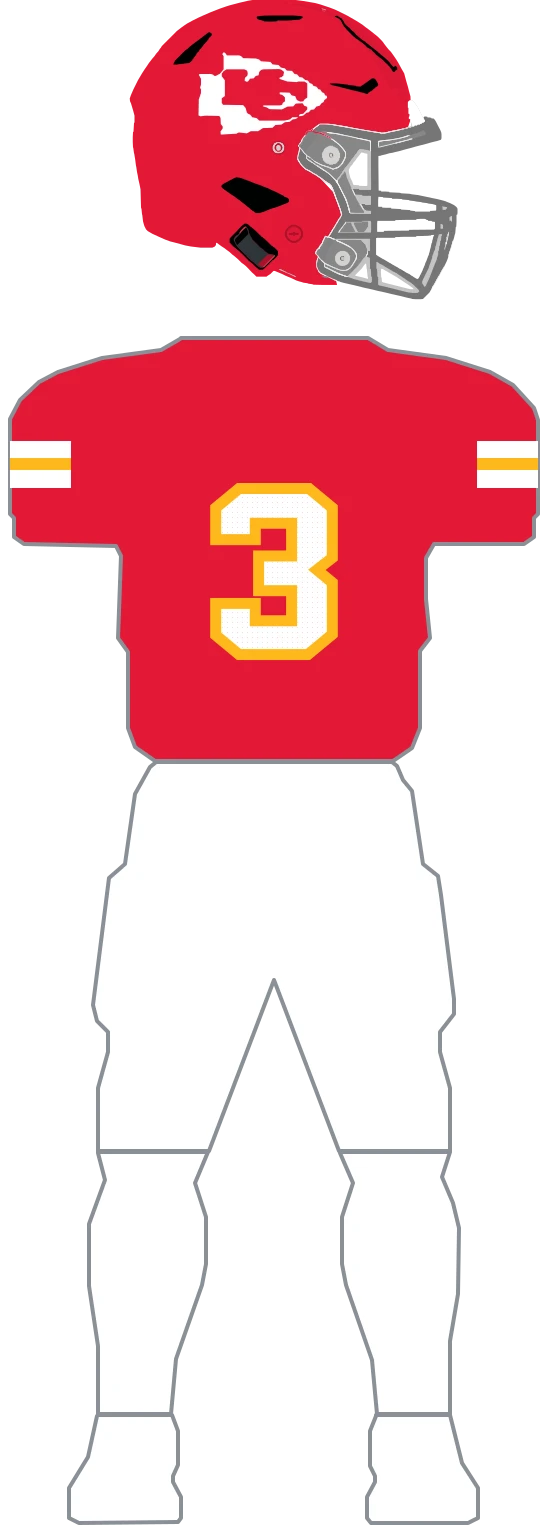
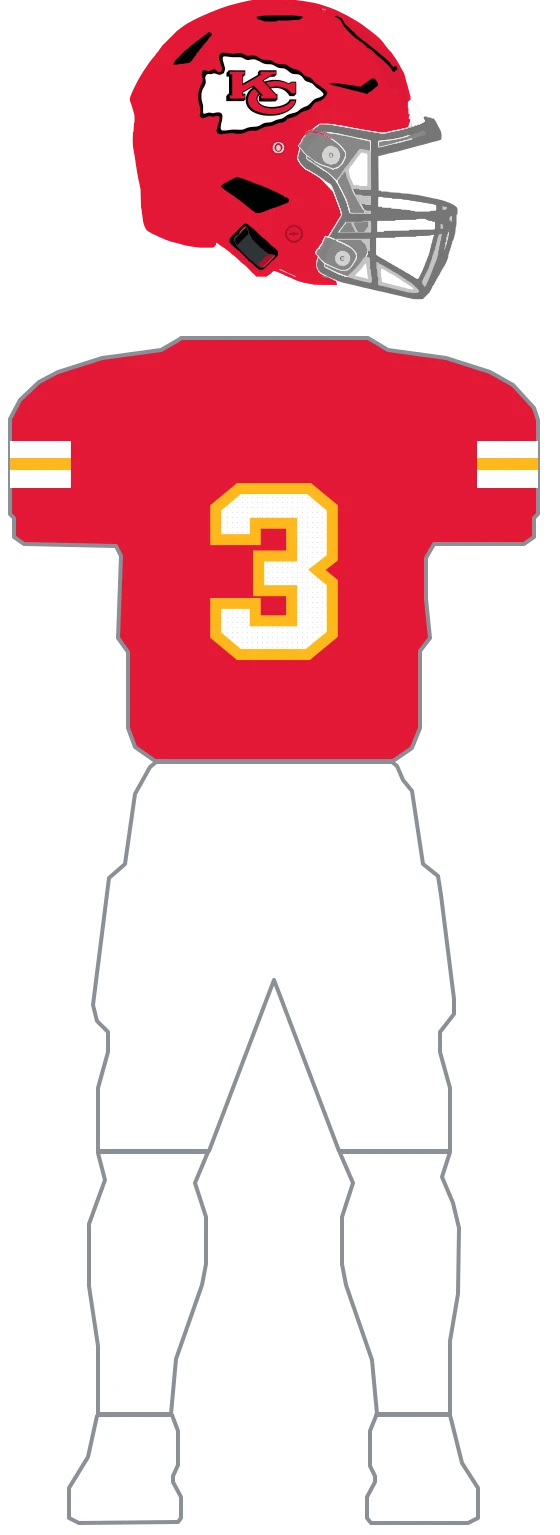
design(uniforms): refine Chiefs helmet mark (#794)

Changed region(s): [[0.3339, 0.0306, 0.5768, 0.0919]]

diff --git a/web/lib/uniforms/teams/chiefs.ts b/web/lib/uniforms/teams/chiefs.ts
@@ -1,21 +1,30 @@
-// Kansas City's construction geometry — the arrowhead decal and the sleeve-band constants only.
-// The composable parts definition that consumes them lives in ./chiefs.parts.ts; the former flat
-// CHIEFS_UNIFORMS was deleted in the migration that proved parts render byte-identically (see
-// parts-parity.test.ts for the one-time gate).
+// Kansas City's construction geometry: the supplied high-resolution helmet mark and sleeve-band
+// constants. The composable parts definition that consumes them lives in ./chiefs.parts.ts.
 
-// White is a literal on the home kit. Its palette is red over gold with accent === secondary (ESPN
-// supplies only two colors), so no token resolves to the pants, the outer sleeve bands or the
-// numeral face — resolving any of them from `accent` would paint them gold.
 export const CHIEFS_WHITE = '#FFFFFF';
 
-// One path, one color, no fill rule — and that is the whole trick here. The mark is a white
-// arrowhead with red letters, and the letters are the same red as the shell they sit on, so tracing
-// only the WHITE region gives a single boundary that snakes around the letterforms and lets the
-// shell read through them. The Cowboys' star needed two stacked layers and the 49ers' oval needed
-// three precisely because their marks are not the shell color. Traced from the helmet bbox
-// (x 877-983, y 295-392 in the reference) mapped onto the raw helmet space at ~6.2x.
-export const CHIEFS_DECAL_ARROWHEAD_PATH =
-  'M325.5,173.2 L329.2,173.2 L333.5,178.8 L357.7,178.8 L361.4,180.0 L365.7,184.3 L391.1,185.0 L397.3,186.8 L401.7,190.6 L420.3,191.8 L424.6,196.8 L436.4,198.0 L441.3,203.0 L449.4,204.9 L453.1,209.2 L463.6,209.8 L468.6,216.0 L473.6,216.7 L478.5,222.2 L484.1,222.9 L489.7,227.8 L495.2,229.1 L499.0,234.1 L503.9,235.9 L506.4,239.7 L512.6,241.5 L516.3,246.5 L520.0,247.1 L523.7,252.7 L527.5,253.9 L529.9,258.9 L533.0,259.5 L533.7,263.9 L528.1,268.2 L526.8,272.0 L522.5,274.5 L518.8,279.4 L512.0,281.3 L507.6,286.9 L501.4,287.5 L497.1,292.5 L492.1,293.7 L486.6,298.7 L482.8,299.9 L477.9,300.6 L477.3,298.1 L480.4,296.2 L485.9,295.6 L494.0,286.9 L494.0,282.5 L492.1,280.7 L488.4,280.0 L484.7,274.5 L471.1,275.1 L466.1,280.7 L454.3,281.3 L443.2,286.9 L418.4,286.3 L412.2,282.5 L406.0,281.3 L406.0,278.8 L439.5,278.8 L443.8,277.6 L445.1,273.8 L449.4,270.7 L449.4,262.6 L443.8,257.7 L438.9,256.4 L438.9,252.7 L458.7,253.3 L463.0,258.9 L469.8,260.2 L472.9,267.6 L474.8,268.9 L480.4,271.3 L485.9,270.7 L489.0,266.4 L494.0,263.3 L494.0,234.7 L488.4,231.0 L476.0,231.0 L472.9,232.2 L454.3,231.0 L438.9,226.0 L438.2,224.1 L439.5,222.9 L442.6,222.2 L446.3,219.1 L447.5,211.7 L442.0,207.3 L437.6,206.1 L405.4,206.7 L401.7,208.0 L398.0,211.7 L396.7,218.5 L391.1,219.8 L386.8,224.7 L379.4,225.4 L376.3,230.3 L373.2,231.6 L368.8,229.7 L369.5,223.5 L373.8,219.8 L375.0,216.0 L374.4,211.1 L372.6,208.6 L368.2,206.7 L332.3,206.7 L326.7,210.4 L323.0,215.4 L323.0,220.4 L329.2,228.5 L329.2,260.2 L323.0,264.5 L323.0,273.8 L325.5,277.6 L365.7,278.2 L370.7,283.8 L373.2,293.1 L375.7,295.6 L380.0,297.4 L383.7,302.4 L393.0,304.3 L398.0,309.2 L448.8,309.2 L459.3,306.8 L464.3,302.4 L474.8,302.4 L474.8,303.7 L470.5,306.1 L464.9,306.8 L458.7,311.7 L449.4,312.4 L442.0,317.3 L430.2,318.0 L424.6,323.5 L405.4,324.2 L395.5,330.4 L381.2,330.4 L373.2,334.7 L357.1,332.9 L352.1,335.4 L321.1,337.2 L320.5,331.0 L324.9,324.8 L324.9,321.1 L321.1,316.1 L320.5,303.7 L318.0,299.9 L290.2,299.3 L280.2,300.6 L276.5,298.7 L277.1,267.0 L281.5,253.9 L281.5,247.1 L279.6,243.4 L281.5,237.2 L281.5,225.4 L277.1,217.9 L278.4,216.0 L301.3,216.0 L305.6,217.3 L308.1,219.8 L311.2,219.8 L319.3,215.4 L326.7,206.7 L326.7,180.6 L324.2,176.3 L325.5,173.8 Z';
+// DEP-467: re-authored from the supplied 2048px SVG instead of the former single-color trace.
+// The mark is fitted into the helmet-composite placement envelope (x=276-534, y=173-337) with
+// its source aspect ratio preserved. At this scale the narrowest critical black keyline is over
+// 5px, and all four closed color components remain stable under a 0.75x downscale. UniformLayer
+// has no transform field, so scale and placement are baked into these raw helmet coordinates.
+export const CHIEFS_DECAL_OUTLINE_PATH =
+  'M324.68,173.35 L327.67,173.35 L332.82,174.01 L339.13,175.17 L341.62,175.51 L347.1,175.51 L353.58,174.51 L355.08,174.34 L359.9,174.34 L363.22,175.01 L366.71,176.17 L370.2,177.83 L372.36,179.16 L373.52,179.49 L376.84,179.49 L382.99,179 L385.65,179 L388.64,179.33 L391.63,179.99 L393.95,181.16 L397.11,183.15 L399.6,184.64 L402.26,185.97 L404.92,186.97 L407.08,187.47 L408.41,187.63 L417.88,187.8 L420.7,188.46 L423.03,189.46 L424.85,190.62 L427.18,192.29 L430.33,193.95 L432.83,194.94 L436.65,195.94 L437.81,196.11 L445.12,196.27 L448.61,196.61 L451.1,197.27 L453.76,198.43 L456.75,200.26 L459.91,202.59 L462.23,203.92 L465.72,205.24 L472.2,207.07 L475.36,208.23 L478.01,209.56 L480.67,211.22 L482.33,212.55 L484.16,214.38 L485.82,216.71 L487.48,218.37 L489.64,219.86 L491.8,220.86 L498.12,222.52 L500.94,223.85 L502.6,225.18 L504.1,226.84 L505.59,229 L507.59,231.33 L509.25,232.99 L511.74,234.65 L514.23,236.14 L516.39,237.97 L519.88,240.3 L521.37,241.46 L524.53,243.79 L526.19,245.12 L527.52,245.78 L529.68,247.77 L531.84,250.1 L533,251.43 L533.83,252.76 L534,254.09 L533.34,256.25 L532.17,258.24 L530.35,260.9 L528.68,263.06 L526.69,265.22 L524.86,266.88 L522.54,268.54 L519.71,269.87 L512.4,272.19 L509.75,273.52 L508.08,274.85 L506.75,276.18 L505.26,278.34 L503.6,281 L502.27,282.66 L500.77,284.32 L498.28,286.32 L495.13,287.98 L491.47,289.31 L486.65,290.8 L482.5,292.46 L480.17,293.79 L478.68,294.95 L476.69,296.78 L474.36,298.44 L470.21,300.6 L465.89,302.43 L462.23,303.43 L457.91,304.59 L455.25,305.75 L453.59,306.92 L451.6,308.74 L450.27,310.07 L448.61,311.24 L446.12,312.56 L443.96,313.23 L438.31,313.89 L435.65,314.56 L432.99,315.55 L428.67,317.71 L425.52,318.88 L421.36,319.71 L412.56,321.04 L408.41,322.03 L405.91,323.03 L400.43,325.69 L396.61,327.85 L393.95,328.84 L391.29,329.34 L381.16,329.34 L378,329.84 L374.52,330.84 L367.37,333.83 L364.38,334.83 L362.22,335.32 L359.56,335.66 L355.58,335.66 L349.76,334.99 L344.61,334.33 L340.13,334.33 L331.99,334.99 L328,335.82 L324.68,336.49 L323.18,336.65 L320.86,336.65 L318.2,336.15 L316.2,335.32 L314.54,334.16 L313.38,332.67 L312.88,331.5 L312.71,330.67 L312.71,327.85 L313.55,324.36 L315.54,317.38 L317.7,310.57 L318.53,307.08 L318.86,304.92 L318.7,302.93 L318.2,301.43 L317.2,300.27 L316.2,299.77 L315.54,299.61 L312.22,299.61 L310.06,300.27 L306.9,301.43 L306.24,301.6 L305.07,301.6 L300.59,300.6 L297.76,300.44 L295.44,300.77 L292.95,301.77 L288.63,303.93 L286.8,304.42 L285.14,304.42 L282.65,303.76 L280.98,302.76 L279.82,301.6 L279.16,299.94 L279.16,298.28 L279.82,294.95 L280.32,292.3 L280.32,288.48 L279.99,285.65 L279.16,281.5 L277.16,273.36 L276.33,268.54 L276,264.72 L276,259.73 L276.17,256.41 L276.83,251.59 L277.83,247.44 L279.99,241.13 L281.48,237.81 L283.31,234.98 L284.14,232.66 L284.64,230 L284.8,228.5 L284.8,226.01 L284.31,223.35 L283.31,219.86 L282.98,218.2 L282.98,216.04 L283.64,212.55 L284.47,210.56 L285.47,209.4 L287.13,208.4 L287.96,208.07 L289.95,208.07 L291.78,209.07 L293.44,210.23 L294.27,210.56 L296.6,210.56 L299.09,209.73 L302.25,208.23 L304.74,207.07 L306.4,206.57 L308.89,206.57 L310.89,207.57 L312.55,209.07 L314.54,211.06 L315.54,211.72 L317.37,212.22 L318.86,212.22 L320.69,211.72 L322.02,210.89 L323.01,209.23 L323.51,207.07 L323.51,205.24 L323.01,202.59 L320.69,195.44 L318.86,189.46 L318.03,186.31 L317.86,184.98 L317.86,180.32 L318.53,178.16 L319.36,176.5 L321.02,174.84 L323.01,173.68 Z M327.33,180.99 L326.01,181.65 L325.17,182.98 L325.01,183.48 L325.01,186.14 L325.34,188.8 L327.33,195.77 L329,201.42 L329.33,202.75 L329.49,204.58 L329.49,206.24 L329,209.4 L328.16,212.22 L327.33,213.88 L326.01,215.05 L323.01,216.71 L320.86,217.37 L320.02,217.54 L316.37,217.54 L312.88,216.37 L310.39,215.38 L308.4,214.88 L306.9,214.88 L304.24,215.71 L301.75,216.37 L300.09,216.37 L298.43,216.04 L295.6,216.04 L293.28,217.04 L292.11,218.04 L290.95,220.03 L290.29,222.02 L290.12,224.68 L290.79,227.67 L291.12,229.83 L291.12,233.49 L290.45,236.14 L288.63,240.3 L287.13,242.79 L285.8,245.12 L284.64,247.77 L283.48,251.26 L282.81,254.09 L282.48,256.58 L282.48,260.07 L282.81,266.71 L283.48,270.7 L284.8,275.18 L285.47,278.18 L285.8,280.83 L285.8,292.96 L286.3,294.29 L287.13,295.12 L287.46,295.29 L288.63,295.29 L292.45,294.29 L295.6,293.29 L298.1,292.96 L300.75,293.29 L304.24,294.29 L306.4,294.29 L311.55,292.96 L313.38,292.63 L317.53,292.63 L320.19,293.29 L321.85,294.29 L323.18,295.78 L324.01,297.61 L324.51,300.27 L324.51,302.26 L324.18,305.09 L321.19,320.04 L320.86,322.86 L320.86,324.53 L321.52,326.52 L322.68,328.01 L323.51,328.68 L324.01,328.84 L330.49,328.84 L335.31,328.35 L342.95,327.18 L344.78,327.02 L349.93,327.02 L355.41,327.35 L360.89,327.35 L364.55,327.02 L367.21,326.35 L369.7,325.36 L373.35,323.69 L376.84,322.7 L380.66,322.03 L385.81,321.54 L391.79,321.04 L394.62,320.54 L397.11,319.71 L399.77,318.38 L403.92,315.89 L406.58,314.56 L409.9,313.56 L412.89,313.06 L418.21,312.73 L421.2,312.23 L424.02,311.4 L426.68,310.24 L431,308.08 L433.49,307.25 L439.8,305.92 L442.96,305.09 L445.62,303.76 L447.94,302.26 L451.1,299.94 L453.43,298.44 L456.25,296.95 L459.74,295.62 L468.05,293.63 L471.37,292.46 L474.03,291.13 L476.02,289.8 L477.85,288.14 L479.68,286.65 L481.17,285.48 L485.32,283.16 L487.98,281.83 L492.63,280.17 L494.63,279.17 L496.95,277.34 L498.12,276.18 L499.44,275.02 L502.6,271.86 L503.76,270.53 L506.26,268.04 L508.58,266.38 L511.24,265.05 L515.23,263.72 L518.88,262.56 L523.04,260.57 L525.03,259.24 L526.03,258.07 L526.36,256.41 L525.69,254.58 L524.7,253.09 L523.37,251.76 L522.04,250.6 L521.21,249.6 L519.38,248.27 L516.72,246.28 L513.73,244.28 L511.74,242.79 L510.08,241.29 L508.58,239.8 L507.42,238.47 L505.92,236.81 L504.1,235.31 L501.44,233.98 L496.12,231.99 L492.47,230.99 L490.64,230 L488.98,228.5 L487.48,226.84 L485.99,224.68 L484.33,222.52 L482.83,220.86 L481.17,219.53 L478.01,217.54 L475.85,216.87 L472.53,216.54 L468.71,216.37 L464.23,215.54 L462.4,214.88 L460.57,213.72 L452.76,207.74 L450.27,206.07 L448.44,205.24 L446.62,204.91 L440.97,204.41 L437.81,203.92 L434.49,202.92 L431.83,201.59 L429.17,199.93 L427.01,198.6 L424.69,197.6 L421.86,196.94 L419.04,196.61 L412.89,196.44 L409.24,195.77 L405.91,194.78 L402.92,193.45 L399.6,191.62 L397.44,190.29 L395.12,189.3 L391.63,187.97 L389.63,187.14 L388.3,186.8 L384.32,186.8 L378.5,187.8 L377.01,187.97 L374.35,187.97 L371.52,187.47 L369.53,186.64 L366.87,185.14 L364.71,183.81 L361.89,182.98 L359.07,182.48 L352.25,182.48 L348.1,182.65 L342.62,182.32 L333.31,181.16 L331.32,180.99 Z';
+
+export const CHIEFS_DECAL_FIELD_PATH =
+  'M327.33,180.99 L331.32,180.99 L337.47,181.65 L342.62,182.32 L348.6,182.65 L352.25,182.48 L359.07,182.48 L363.22,183.31 L365.38,184.15 L368.53,186.14 L371.03,187.3 L373.02,187.8 L374.35,187.97 L377.01,187.97 L381.33,187.3 L384.32,186.8 L388.3,186.8 L390.96,187.63 L393.29,188.63 L396.78,189.96 L399.43,191.46 L402.26,193.12 L405.08,194.45 L408.57,195.61 L411.73,196.27 L412.89,196.44 L419.04,196.61 L421.86,196.94 L424.69,197.6 L427.34,198.76 L430,200.43 L431.83,201.59 L434.49,202.92 L437.81,203.92 L440.97,204.41 L446.62,204.91 L448.78,205.41 L451.1,206.57 L454.09,208.73 L456.58,210.73 L458.58,212.22 L460.74,213.88 L462.73,215.05 L464.89,215.71 L468.71,216.37 L474.86,216.71 L477.52,217.37 L479.18,218.2 L481.84,220.03 L483.5,221.52 L485.16,223.52 L487.32,226.51 L488.48,228 L490.14,229.67 L491.8,230.66 L493.46,231.33 L497.12,232.32 L501.77,234.15 L504.1,235.31 L505.92,236.81 L507.09,237.97 L508.25,239.3 L509.75,240.96 L511.24,242.46 L514.4,244.78 L517.39,246.78 L519.55,248.44 L521.54,249.93 L523.04,251.59 L524.36,252.76 L525.53,254.25 L526.19,255.75 L526.36,256.74 L525.86,258.24 L524.86,259.4 L522.7,260.73 L518.88,262.56 L514.73,263.89 L511.24,265.05 L508.58,266.38 L506.75,267.71 L505.09,269.2 L502.77,271.53 L501.6,272.86 L498.45,276.02 L497.12,277.18 L495.13,278.84 L493.13,280 L488.81,281.5 L485.49,282.99 L482.67,284.65 L480.67,285.82 L478.51,287.64 L476.69,289.31 L474.36,290.97 L471.7,292.3 L469.04,293.29 L466.05,294.12 L459.74,295.62 L457.08,296.62 L454.42,297.94 L452.1,299.27 L449.77,300.93 L446.78,303.09 L443.79,304.76 L441.3,305.59 L434.16,307.08 L431.5,307.91 L427.68,309.74 L424.52,311.24 L421.86,312.07 L419.54,312.56 L415.72,312.9 L411.56,313.23 L408.07,314.06 L405.91,314.89 L403.26,316.22 L399.77,318.38 L397.11,319.71 L394.62,320.54 L391.79,321.04 L385.81,321.54 L380.66,322.03 L376.18,322.86 L373.35,323.69 L369.37,325.52 L366.21,326.69 L363.22,327.18 L360.89,327.35 L355.41,327.35 L349.93,327.02 L344.78,327.02 L340.46,327.52 L334.15,328.51 L330.49,328.84 L324.01,328.84 L323.01,328.35 L321.85,327.02 L321.19,325.69 L320.86,324.53 L320.86,322.86 L321.52,318.05 L322.85,311.9 L324.18,305.09 L324.51,302.26 L324.51,300.27 L324.01,297.61 L322.85,295.29 L321.69,294.12 L319.69,293.13 L317.53,292.63 L313.38,292.63 L309.39,293.46 L306.4,294.29 L304.24,294.29 L300.75,293.29 L297.6,292.96 L295.1,293.46 L290.12,294.95 L288.63,295.29 L287.46,295.29 L286.63,294.79 L285.97,293.63 L285.8,292.96 L285.8,280.83 L285.14,276.35 L283.64,271.36 L282.98,268.04 L282.65,264.39 L282.48,260.07 L282.48,256.58 L282.98,253.42 L283.97,249.6 L285.3,246.11 L286.96,242.96 L288.13,241.13 L289.46,238.47 L290.62,235.65 L291.12,233.49 L291.12,229.83 L290.62,227.01 L290.12,224.68 L290.29,222.02 L291.12,219.7 L292.28,217.87 L293.61,216.87 L295.6,216.04 L298.43,216.04 L300.09,216.37 L301.75,216.37 L304.24,215.71 L306.9,214.88 L308.4,214.88 L310.39,215.38 L315.21,217.21 L316.37,217.54 L320.02,217.54 L322.52,216.87 L325.17,215.54 L326.84,214.38 L327.5,213.55 L328.16,212.22 L329,209.4 L329.49,206.24 L329.49,204.58 L329.16,202.09 L327.83,197.44 L325.84,190.62 L325.17,187.97 L325.01,186.14 L325.01,183.48 L325.84,181.82 L326.84,181.16 Z';
+
+export const CHIEFS_DECAL_LETTER_KEYLINE_PATH =
+  'M337.14,208.57 L342.95,208.57 L370.03,208.73 L370.03,217.54 L365.38,222.19 L365.21,222.52 L365.05,235.15 L368.2,233.32 L376.34,228.67 L380.66,226.18 L388.8,221.52 L393.12,219.03 L394.78,218.04 L395.12,218.04 L395.28,212.22 L398.94,208.57 L432.33,208.57 L432.49,208.73 L432.49,217.37 L431,218.87 L429.67,220.03 L428.51,221.19 L428.18,221.36 L420.03,221.52 L418.37,222.36 L412.56,225.84 L407.24,229 L406.91,229 L407.41,229.83 L408.41,230.99 L410.07,230.66 L414.88,229.33 L419.7,228.34 L423.52,227.84 L425.35,227.67 L432.99,227.67 L437.48,228.17 L441.13,228.83 L445.12,229.83 L450.6,231.66 L454.92,233.49 L457.25,234.48 L461.07,232.16 L462.4,231.33 L471.87,231.33 L472.03,234.82 L472.03,255.58 L471.54,256.41 L469.54,258.24 L467.71,260.07 L467.38,260.23 L458.74,260.23 L457.75,258.9 L455.75,256.08 L454.26,254.25 L452.26,252.09 L450.44,250.43 L447.61,248.44 L444.95,246.94 L441.8,245.61 L438.14,244.62 L434.82,244.12 L432.16,243.95 L429.84,243.95 L425.35,244.28 L422.19,244.78 L421.36,244.78 L422.86,246.61 L424.52,248.27 L425.68,249.6 L426.85,250.76 L428.01,252.09 L429.5,253.59 L430.67,254.92 L431.5,255.91 L431.83,256.08 L434.49,256.25 L434.49,266.88 L433.16,268.21 L431.83,269.37 L430.33,270.87 L421.86,271.03 L408.24,271.03 L397.27,270.87 L397.11,270.03 L397.11,261.23 L397.27,260.9 L397.61,260.9 L397.94,260.23 L399.1,259.07 L398.77,258.41 L398.11,258.24 L396.78,259.57 L395.61,261.4 L394.95,263.06 L394.62,264.55 L394.62,266.55 L395.28,269.2 L396.28,271.2 L397.61,273.03 L399.43,275.02 L400.93,276.35 L404.58,278.34 L406.91,279.34 L409.4,280.17 L413.06,281 L416.21,281.5 L419.87,281.83 L426.51,281.83 L431.83,281.33 L437.64,280.33 L442.63,279.01 L446.28,277.68 L449.61,276.18 L452.6,274.35 L454.92,272.53 L456.25,271.2 L457.75,268.87 L458.58,266.88 L464.23,266.71 L466.88,266.71 L472.03,266.88 L472.03,268.37 L471.7,270.7 L471.04,273.19 L469.54,276.68 L467.88,279.34 L465.72,282 L463.39,284.49 L461.73,285.98 L459.74,287.64 L456.58,289.97 L453.09,291.96 L447.78,294.46 L442.79,296.28 L438.14,297.61 L434.16,298.44 L429.17,299.11 L423.69,299.44 L414.22,299.44 L409.07,299.11 L404.58,298.44 L398.77,297.11 L392.96,295.29 L389.3,293.79 L385.31,291.8 L382.49,289.97 L380.66,288.48 L379,286.98 L377.34,285.32 L375.51,282.99 L374.02,280.67 L372.69,277.68 L371.69,274.69 L371.19,272.19 L371.03,270.87 L371.03,265.72 L371.52,262.39 L372.52,258.9 L373.52,256.41 L375.35,252.92 L377.01,250.6 L379,248.27 L380.99,246.44 L383.82,244.28 L384.48,243.62 L383.82,242.96 L382.99,243.12 L378.83,245.45 L374.85,247.77 L370.2,250.43 L365.88,252.92 L365.38,253.42 L365.38,254.92 L365.54,255.25 L370.36,255.42 L370.36,266.38 L369.86,267.38 L367.87,269.2 L366.71,270.2 L331.99,270.2 L331.99,260.4 L333.31,258.74 L335.14,256.58 L336.14,255.42 L336.97,255.25 L337.47,255.25 L337.47,221.19 L332.48,221.19 L332.32,221.03 L332.48,213.88 L336.47,209.23 Z';
+
+export const CHIEFS_DECAL_K_PATH =
+  'M339.13,211.22 L368.87,211.22 L369.03,213.72 L369.03,216.54 L368.87,216.71 L364.05,216.87 L364.05,232.82 L363.88,239.13 L365.88,238.14 L368.7,236.48 L372.85,234.15 L385.65,226.84 L389.47,224.68 L393.45,222.36 L397.11,220.36 L399.93,218.7 L402.59,217.21 L402.92,216.71 L400.43,216.71 L400.43,211.22 L431.17,211.22 L431.33,211.56 L431.33,216.54 L431,216.71 L425.02,216.87 L423.86,217.21 L420.87,218.87 L416.21,221.69 L412.06,224.18 L410.23,225.18 L408.57,226.18 L404.58,228.5 L403.92,228.67 L404.58,229.67 L407.08,232.16 L408.24,233.49 L410.9,236.31 L413.39,238.97 L414.88,240.63 L417.54,243.45 L420.53,246.78 L421.86,248.11 L421.86,248.44 L422.19,248.44 L423.36,249.77 L425.18,251.76 L430.17,257.08 L431.66,258.57 L432.49,258.9 L432.66,261.23 L432.66,265.05 L401.59,265.05 L401.59,258.74 L405.08,258.74 L404.92,258.07 L403.42,256.58 L402.26,255.25 L401.76,254.75 L401.76,254.42 L401.43,254.42 L400.27,253.09 L398.77,251.59 L397.61,250.27 L394.95,247.44 L393.62,246.11 L392.46,244.78 L391.13,243.45 L389.97,242.12 L388.64,240.8 L387.47,239.47 L387.14,239.13 L386.31,239.13 L384.15,240.46 L379.83,242.96 L375.18,245.61 L370.86,248.11 L366.21,250.76 L364.55,251.76 L364.22,251.76 L364.05,258.74 L368.87,258.9 L369.03,260.23 L369.03,264.88 L368.87,265.05 L350.76,265.22 L339.13,265.22 L338.96,265.05 L338.96,261.73 L339.13,258.9 L343.78,258.74 L343.95,258.57 L343.95,216.87 L339.13,216.71 L338.96,216.54 L338.96,211.72 Z';
+
+export const CHIEFS_DECAL_C_PATH =
+  'M387.81,245.95 M388.47,246.11 L390.8,248.44 L391.96,249.77 L394.28,252.26 L396.28,254.42 L397.11,255.25 L396.94,255.91 L395.28,257.58 L394.12,259.4 L393.12,261.4 L392.46,264.05 L392.46,266.38 L393.12,269.04 L393.79,270.53 L394.78,272.36 L396.28,274.35 L398.11,276.35 L399.27,277.51 L401.26,279.01 L403.42,280.33 L405.91,281.66 L408.9,282.83 L412.39,283.82 L417.04,284.65 L420.2,284.99 L428.01,284.99 L433.99,284.32 L439.14,283.33 L443.29,282.16 L447.78,280.67 L451.1,279.17 L453.59,277.84 L456.42,275.85 L459.41,272.86 L461.07,270.53 L461.73,269.54 L462.07,269.37 L470.37,269.37 L469.87,271.36 L468.88,274.19 L467.55,276.68 L466.05,278.67 L464.06,281 L461.73,283.49 L460.4,284.65 L458.58,286.15 L455.75,288.14 L451.93,290.14 L449.61,291.3 L445.62,292.79 L442.46,293.79 L438.48,294.79 L434.49,295.45 L429.84,295.95 L425.68,296.12 L419.54,296.12 L414.39,295.78 L409.24,295.12 L404.75,294.29 L400.6,293.29 L395.78,291.8 L391.63,290.14 L388.97,288.81 L386.31,287.15 L383.65,284.99 L381.49,282.99 L380,281.17 L378.67,279.5 L377.34,277.34 L376.34,274.52 L375.68,271.53 L375.51,270.2 L375.51,266.88 L376.01,263.22 L377.17,259.07 L378.5,256.08 L380,253.42 L381.82,251.1 L384.32,248.6 L386.64,246.78 Z';
+
+export const CHIEFS_DECAL_CROSSBAR_PATH =
+  'M428.51,230.16 L432.99,230.16 L438.97,230.66 L443.13,231.33 L447.45,232.32 L451.43,233.49 L454.76,234.65 L457.91,235.98 L458.91,235.81 L460.74,234.48 L463.06,232.99 L470.54,232.99 L470.7,233.15 L470.7,246.28 L470.54,254.42 L470.37,254.58 L462.56,254.58 L460.74,252.26 L459.24,250.6 L458.08,249.43 L455.92,247.77 L452.93,245.95 L449.11,244.12 L444.62,242.62 L440.97,241.79 L436.15,241.13 L427.84,241.13 L422.69,241.79 L419.37,242.46 L418.21,241.29 L417.04,239.97 L415.22,237.97 L412.23,234.65 L411.4,233.82 L411.56,233.32 L414.39,232.49 L418.21,231.49 L422.86,230.66 Z';
 
 // Three bands at the end of each sleeve, measured on the home figure (jersey top y=401, sleeve hem
 // y=466, figure center x=921, so scaleY = 191/65 and scaleX = 264/84.5): reference y437-441,

diff --git a/web/lib/uniforms/teams/chiefs.parts.ts b/web/lib/uniforms/teams/chiefs.parts.ts
@@ -10,7 +10,12 @@
 // (white at home, red away).
 
 import {
-  CHIEFS_DECAL_ARROWHEAD_PATH,
+  CHIEFS_DECAL_CROSSBAR_PATH,
+  CHIEFS_DECAL_C_PATH,
+  CHIEFS_DECAL_FIELD_PATH,
+  CHIEFS_DECAL_K_PATH,
+  CHIEFS_DECAL_LETTER_KEYLINE_PATH,
+  CHIEFS_DECAL_OUTLINE_PATH,
   CHIEFS_SLEEVE_X_LEFT,
   CHIEFS_SLEEVE_X_RIGHT,
   CHIEFS_STRIPE_BOUNDS,
@@ -44,9 +49,7 @@ function sleeveStripes(outer: string, middle: string): PartLayer[] {
   return out;
 }
 
-// The red shell with the white arrowhead decal — one object, shared by both kits. The arrowhead
-// is a white region whose counters let the shell read through, so only the white is traced (see
-// chiefs.ts); the shell color behind it is the part's base.
+// The red shell with the complete four-color arrowhead construction, shared by both kits.
 //
 // Grey cage, sampled from the GUD helmet composite (nfl-uniform-refs/chiefs): the facemask bar
 // reads #868686 against the red shell / white background, on both archived helmets. Matches the
@@ -57,13 +60,39 @@ const HELMET_RED_ARROWHEAD: UniformPart = {
   facemask: 'grey',
   layers: [
     {
-      id: 'chiefs-decal-arrowhead',
+      id: 'chiefs-decal-outline',
       surface: 'helmet' as const,
-      d: CHIEFS_DECAL_ARROWHEAD_PATH,
+      d: CHIEFS_DECAL_OUTLINE_PATH,
+      clip: true,
+      kind: 'fill',
+      fill: 'black',
+    },
+    {
+      id: 'chiefs-decal-field',
+      surface: 'helmet' as const,
+      d: CHIEFS_DECAL_FIELD_PATH,
       clip: true,
       kind: 'fill',
       fill: 'white',
     },
+    {
+      id: 'chiefs-decal-letter-keyline',
+      surface: 'helmet' as const,
+      d: CHIEFS_DECAL_LETTER_KEYLINE_PATH,
+      clip: true,
+      kind: 'fill',
+      fill: 'black',
+    },
+    ...[CHIEFS_DECAL_K_PATH, CHIEFS_DECAL_C_PATH, CHIEFS_DECAL_CROSSBAR_PATH].map(
+      (d, index): PartLayer => ({
+        id: `chiefs-decal-letter-red-${index + 1}`,
+        surface: 'helmet',
+        d,
+        clip: true,
+        kind: 'fill',
+        fill: 'red',
+      })
+    ),
   ],
 };
 
@@ -84,6 +113,7 @@ const JERSEY_WHITE: UniformPart = {
 // Plain white pants, shared by both kits. Home reaches this through a white literal in the flat
 // form (its palette is red over gold), away through its primary; here it is one palette entry.
 const PANTS_WHITE: UniformPart = { base: 'white', layers: [] };
+const PANTS_RED: UniformPart = { base: 'red', layers: [] };
 
 export const CHIEFS_PARTS: TeamPartsDefinition = {
   teamId: 'chiefs',
@@ -93,6 +123,7 @@ export const CHIEFS_PARTS: TeamPartsDefinition = {
     red: '#E31837',
     gold: '#FFB81C',
     white: '#FFFFFF',
+    black: '#010101',
     // The facemask cage grey — no token in the red/gold Chiefs palette. Sampled from the GUD
     // helmet composite (see the helmet part note); matches the documented light-grey cage.
     grey: '#868686',
@@ -102,10 +133,12 @@ export const CHIEFS_PARTS: TeamPartsDefinition = {
     red: JERSEY_RED,
     white: JERSEY_WHITE,
   },
-  pants: { white: PANTS_WHITE },
+  pants: { white: PANTS_WHITE, red: PANTS_RED },
   kits: {
     home: { helmet: 'red-arrowhead', jersey: 'red', pants: 'white' },
-    away: { helmet: 'red-arrowhead', jersey: 'white', pants: 'white' },
+    // The current-season composite shows both white and red trousers with the away top;
+    // canonical-first preserves the existing all-white raster.
+    away: { helmet: 'red-arrowhead', jersey: 'white', pants: ['white', 'red'] },
   },
 };
 
